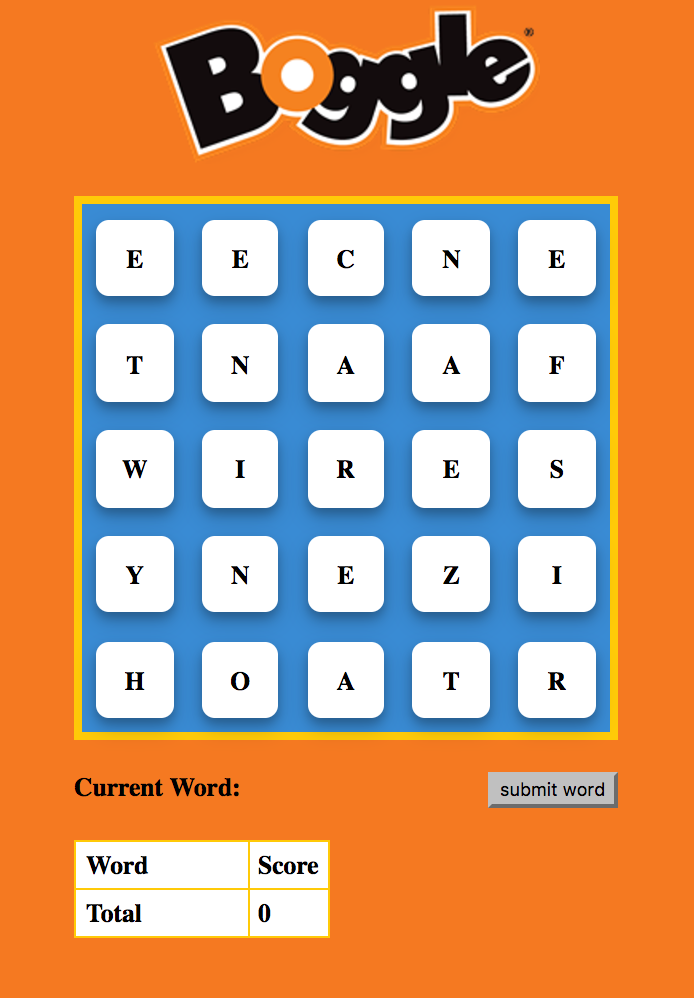
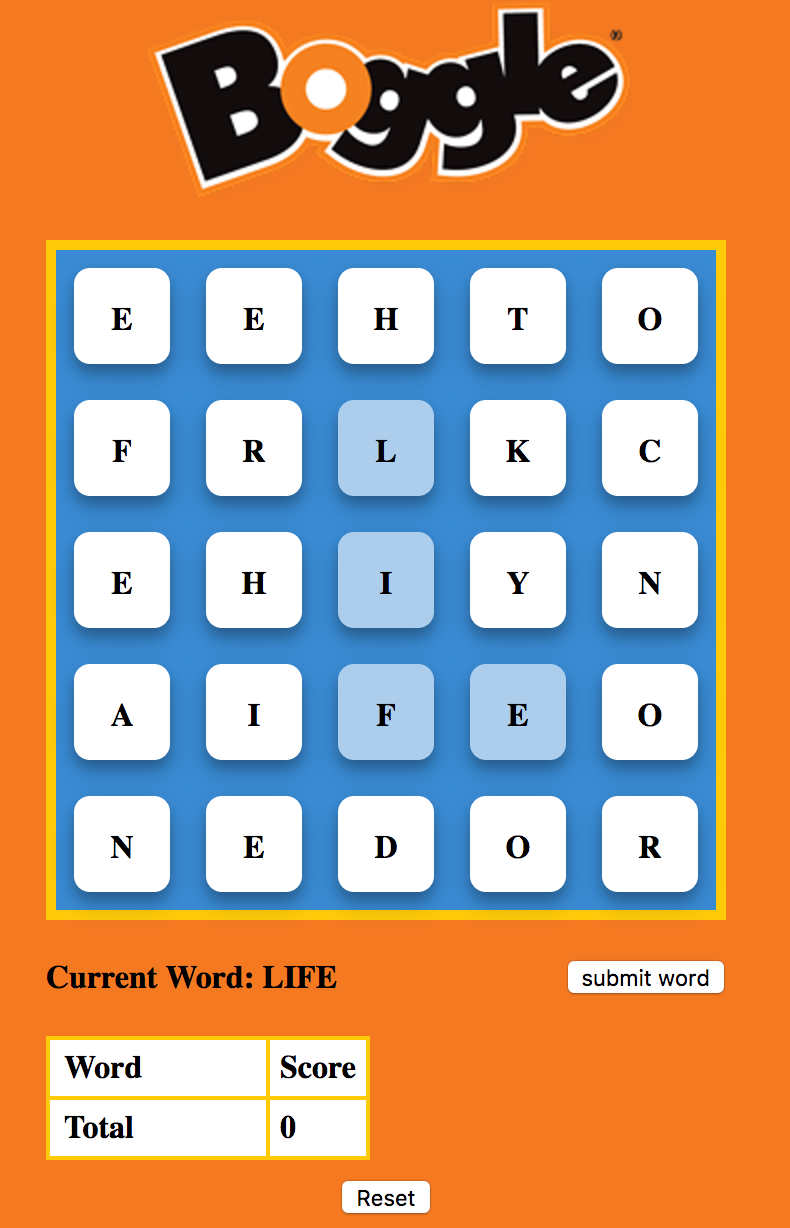
readme update

diff --git a/README.md b/README.md
@@ -2,6 +2,8 @@
 
 [Live Site](https://spookybit.github.io/boggle/)
 
-Simple boggle clone made entirely out of javascript and HTML elements.
+Simple boggle clone made entirely out of javascript and HTML elements. Uses query selectors and attaches event handlers to allow the user to interact with the page's elements.
 
 ![image1](assets/image1.png)
+
+![image2](assets/image2.png)
